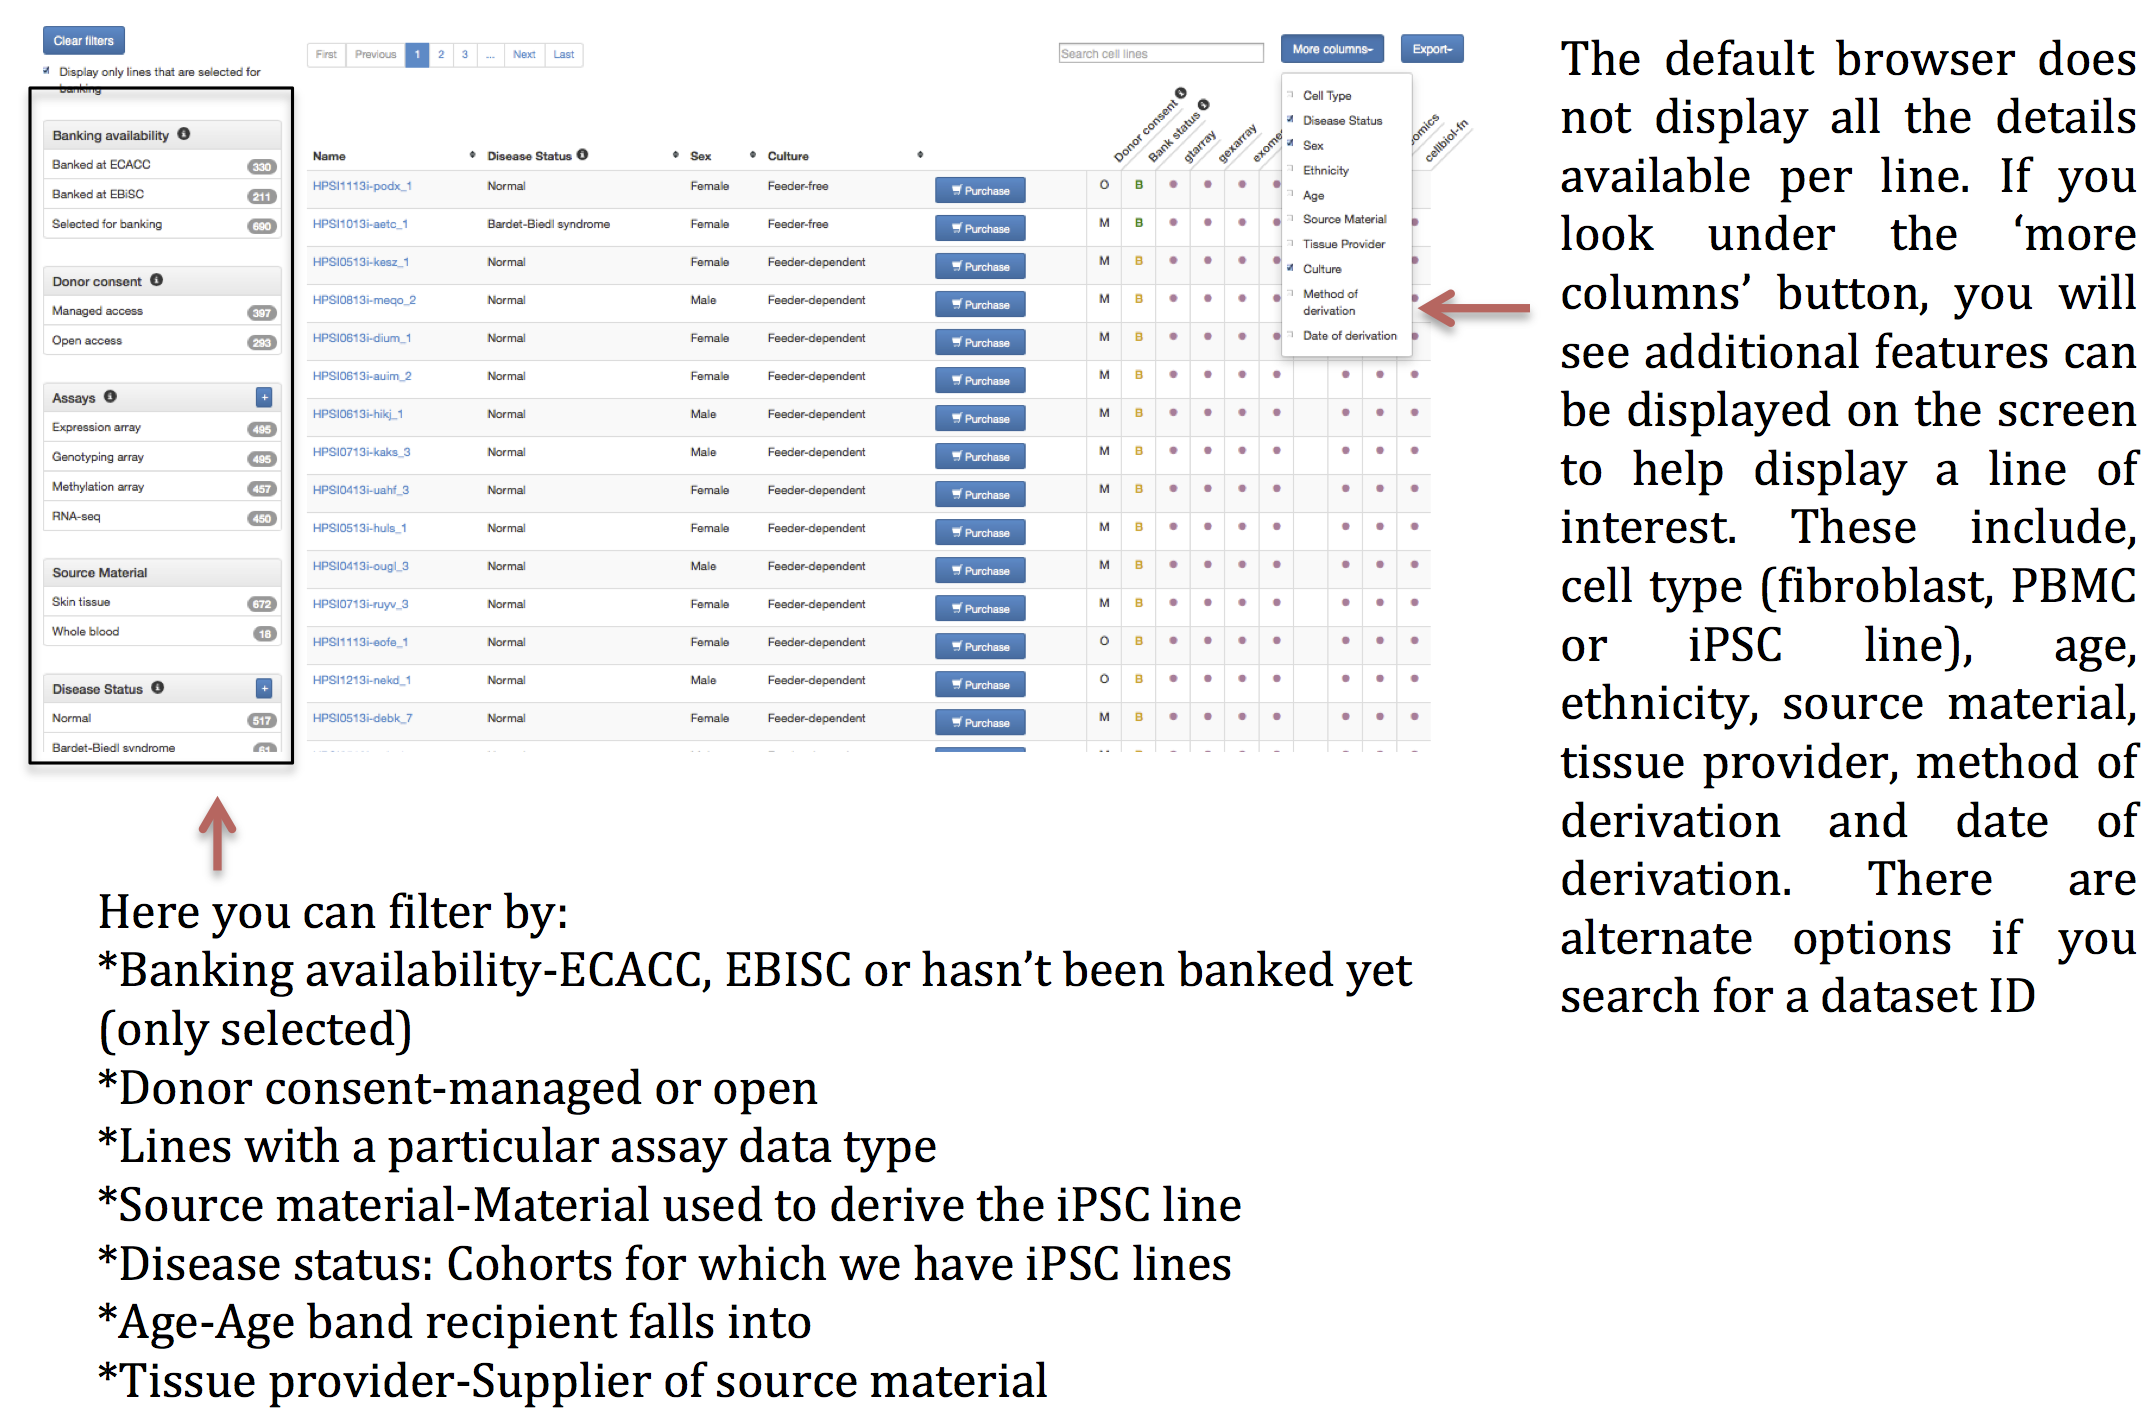
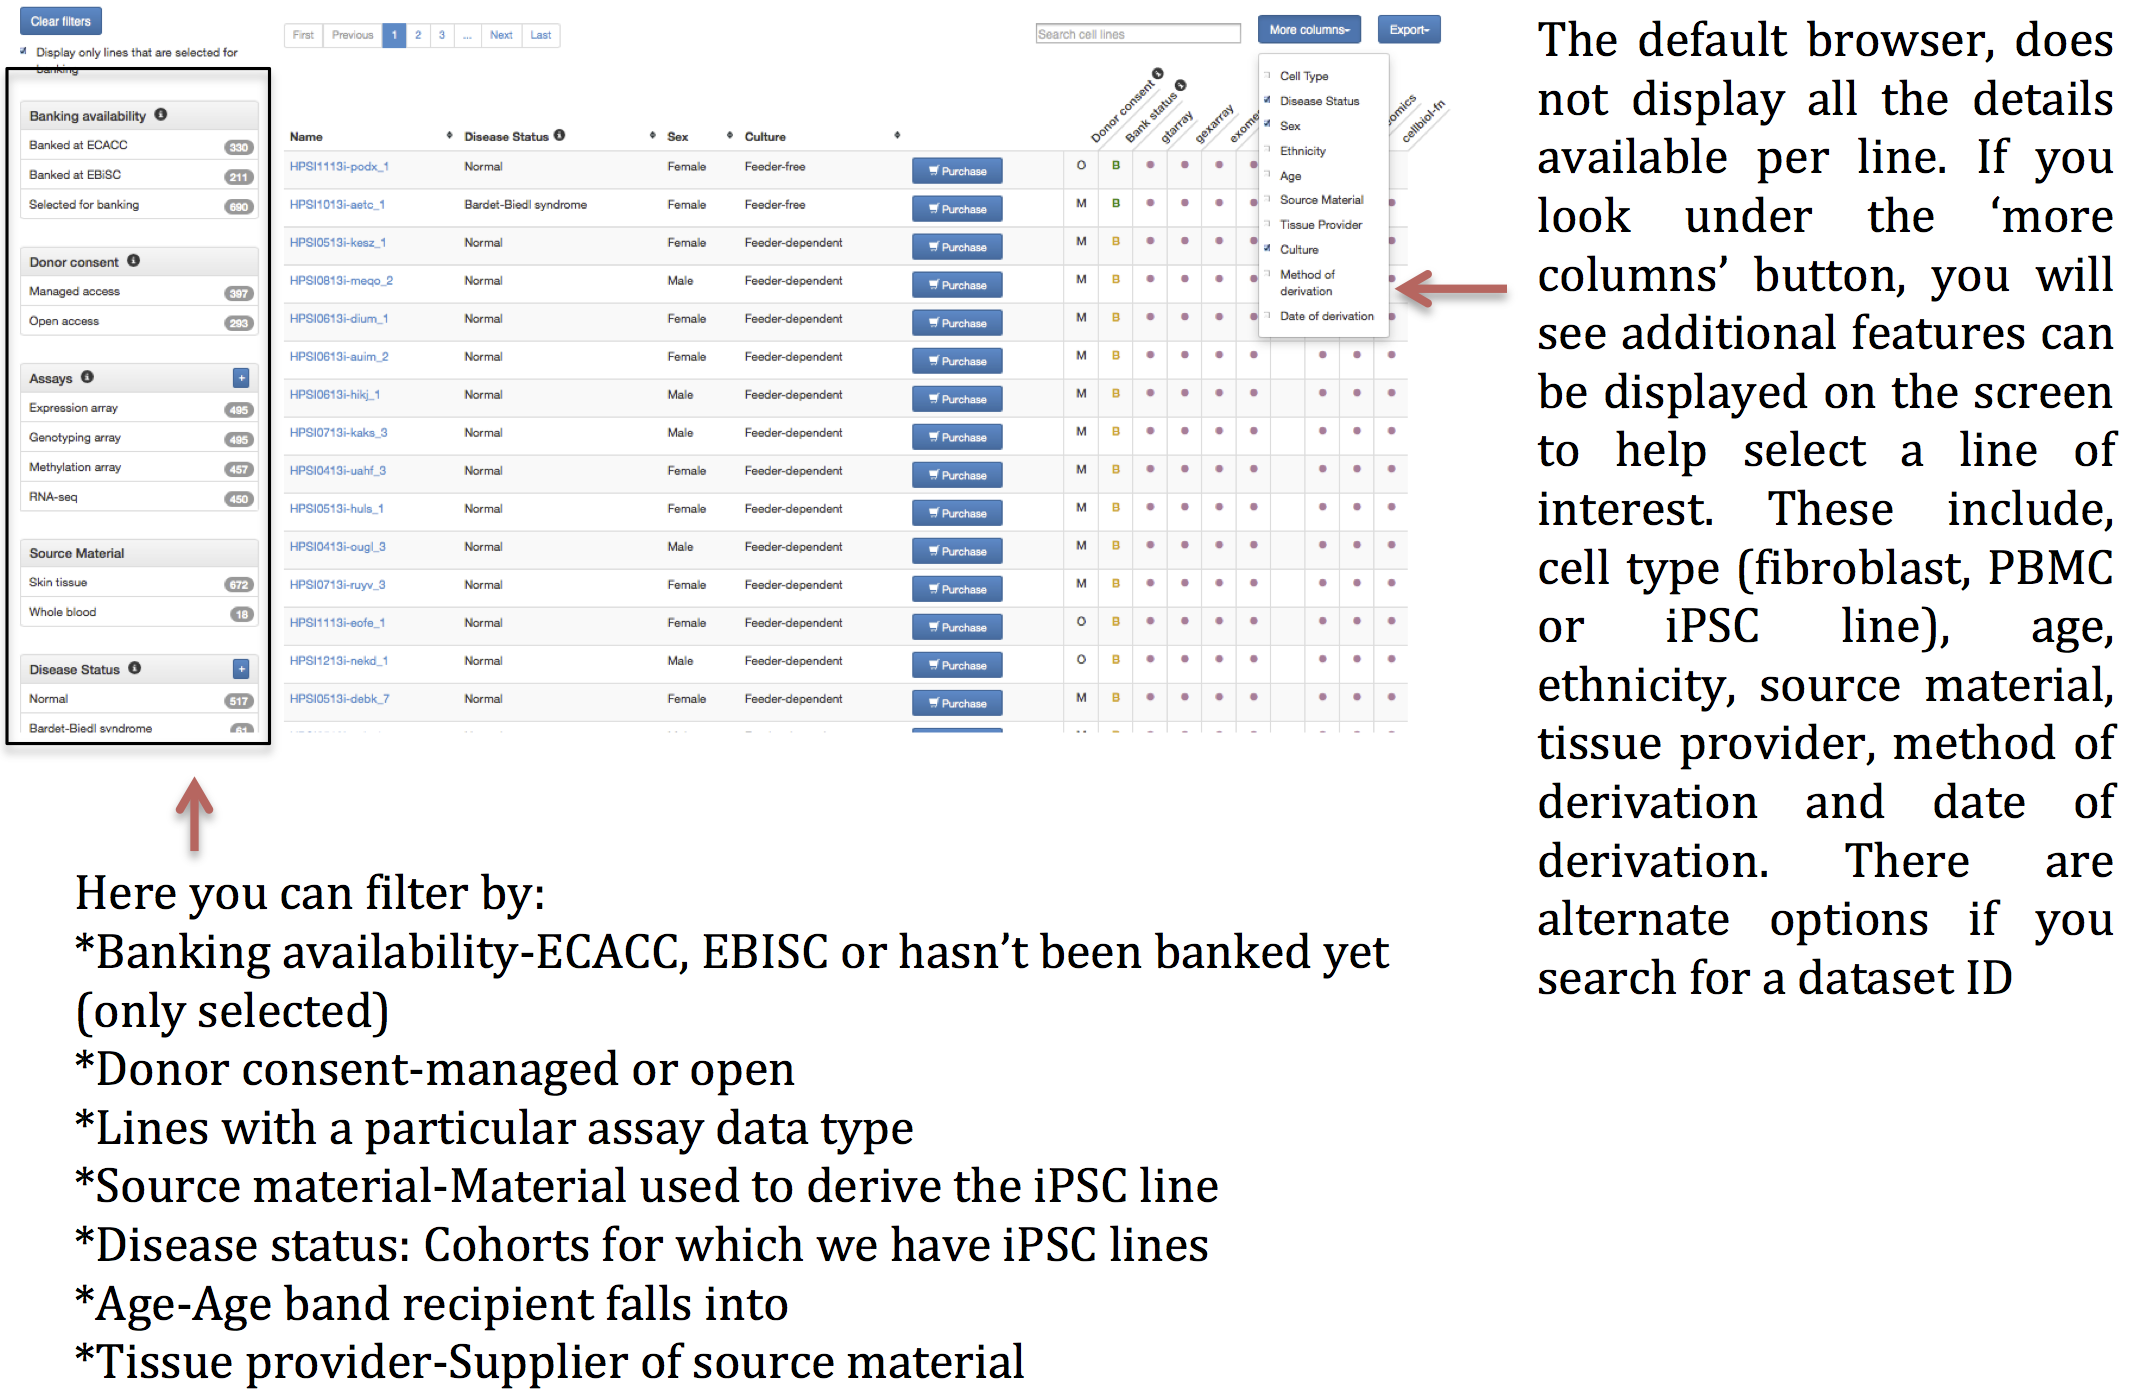
Minor changes to the images

Changed region(s): [[0.3097, 0.0, 0.9911, 0.7393], [0.0, 0.0, 0.6504, 1.0], [0.2168, 0.0924, 0.2787, 0.5236]]

diff --git a/data/faq/find-download-open-access-files.md b/data/faq/find-download-open-access-files.md
@@ -14,7 +14,7 @@ The "archive" column tells you where the data is archived.  Data are available f
 
 HipSci's open access data sets may be freely downloaded by anybody, so there is no requirement to register for access.  You can discover open access data by clicking on the "Open access" filter in the HipSci [files](/lines/#/files) table.
 
-<img src="/img/datafaq9.png" class="faqimage">
+<img src="/img/datafaq9.png" class="faqimage faqimage-sm">
 
 There are many different tools available to download data files by FTP - the computer you use probably has a download tool already installed. Some of HipSci's data files are very large - possibly several gigabytes.  If you have experience, then we recommend downloading large files from a command line tool, or with a FTP client such as [Filezilla](https://filezilla-project.org/).
 
